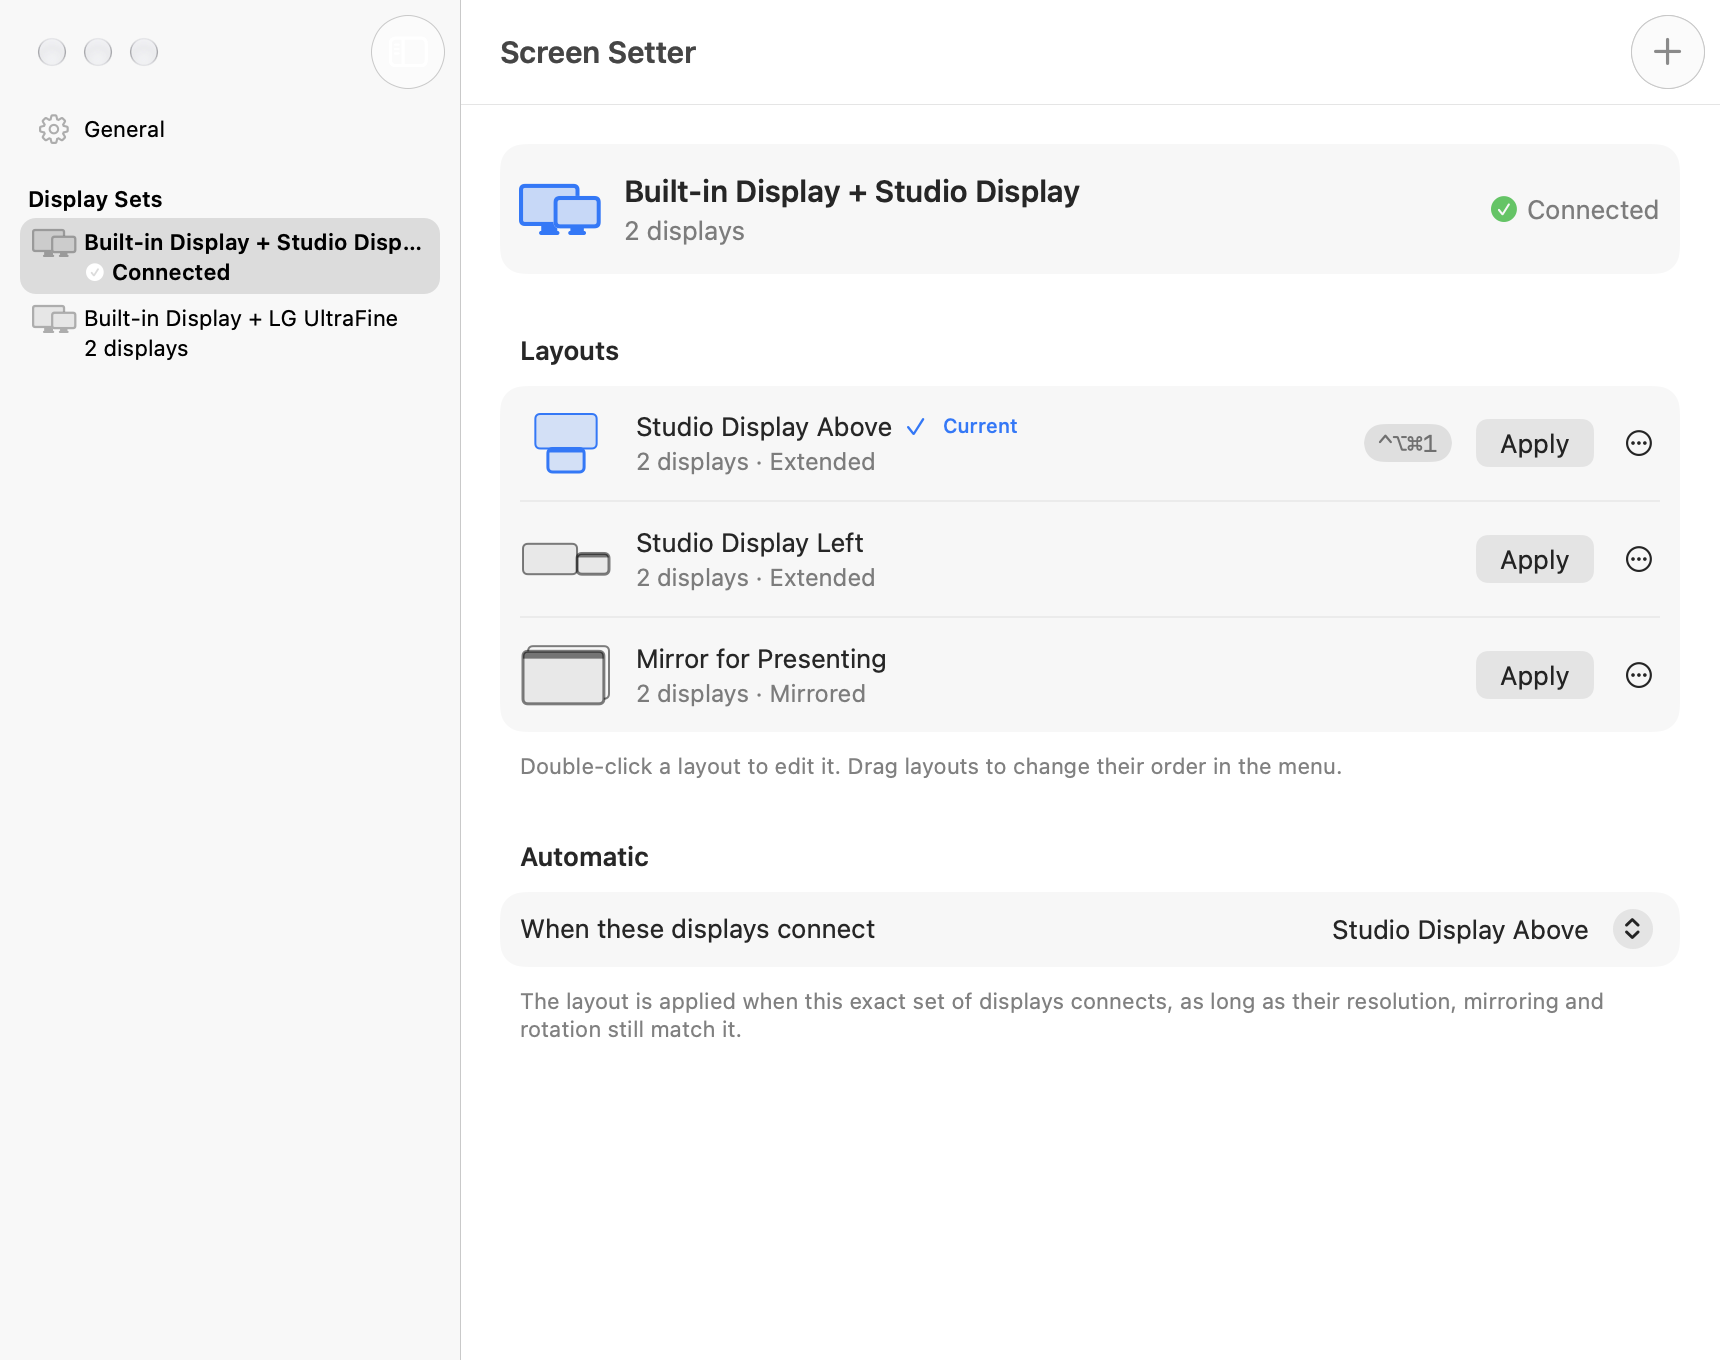
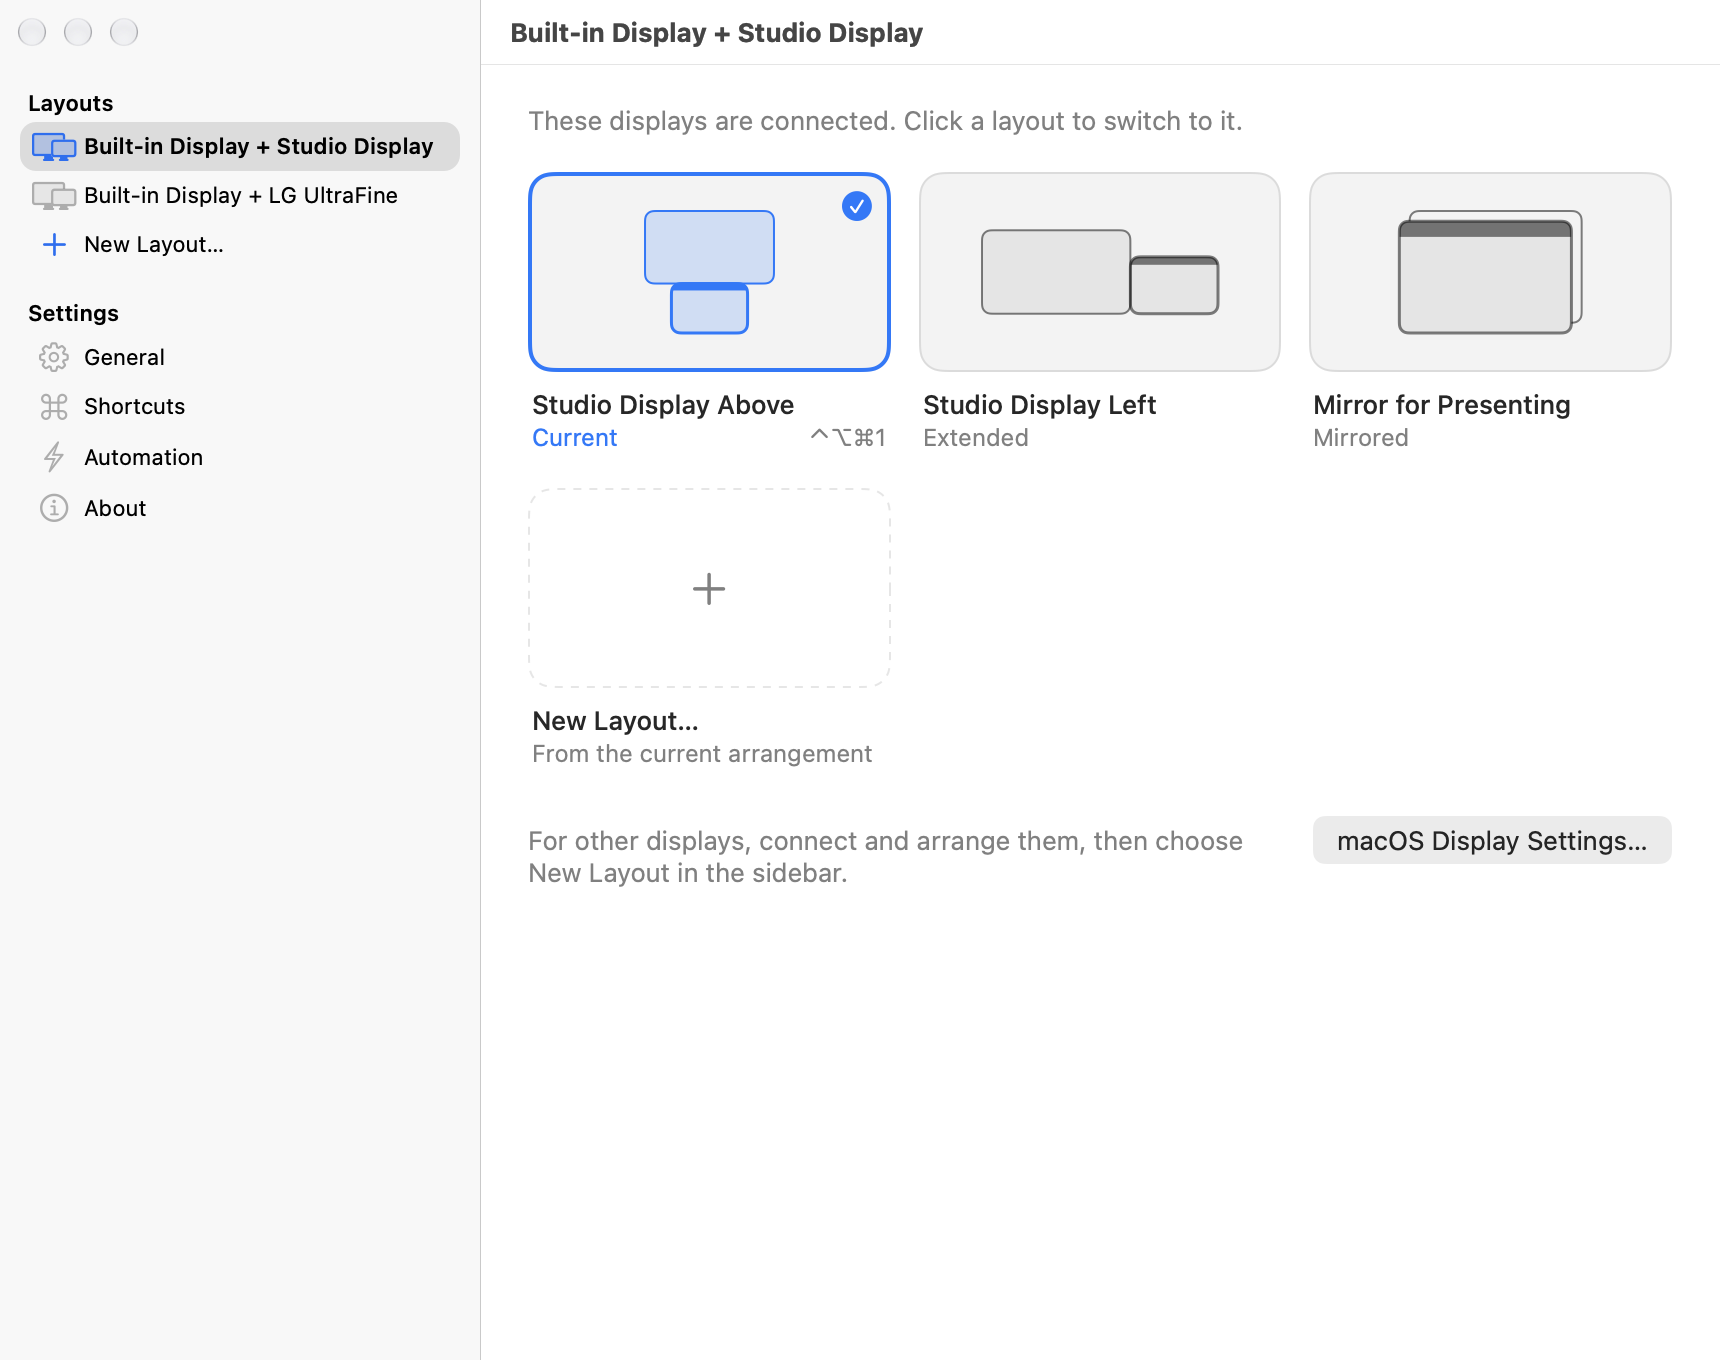
Release 2.2.2 (27) and refresh product images

diff --git a/docs/index.html b/docs/index.html
@@ -233,7 +233,7 @@
     <section class="section" id="download" aria-labelledby="download-title">
       <div class="wrap">
         <h2 id="download-title">Get Screen Setter. It's free.</h2>
-        <p class="lead section-lead">Version 2.2.0, for macOS 26 or later on Apple silicon and Intel Macs.</p>
+        <p class="lead section-lead">Version 2.2.2, for macOS 26 or later on Apple silicon and Intel Macs.</p>
         <div class="hero-actions">
           <a class="btn btn-primary" href="get/">Download</a>
           <a class="btn btn-secondary" href="https://github.com/andrea-lonardo/screen-setter/releases">All releases</a>

diff --git a/Tools/make_demo_gif.swift b/Tools/make_demo_gif.swift
@@ -120,7 +120,7 @@ func frame(from: Int, to: Int, progress: CGFloat, highlighted: Int?, checked: In
         drawTile(studio, title: "Studio Display", detail: "2560 × 1440", main: true, alpha: 1)
 
         // Screen Setter's menu.
-        let menu = CGRect(x: size.width - 470, y: barHeight + 10, width: 450, height: 304)
+        let menu = CGRect(x: size.width - 470, y: barHeight + 10, width: 450, height: 260)
         let menuPath = NSBezierPath(roundedRect: menu, xRadius: 16, yRadius: 16)
         color(0x1C1F28, 0.97).setFill()
         menuPath.fill()

diff --git a/docs/get/index.html b/docs/get/index.html
@@ -167,7 +167,7 @@
             <a class="btn btn-secondary" href="https://github.com/andrea-lonardo/screen-setter/releases">All releases</a>
           </div>
           <ul class="get-facts">
-            <li>Version 2.2.1 (26)</li>
+            <li>Version 2.2.2 (27)</li>
             <li>Screen-Setter.dmg, 4.4 MB</li>
             <li>Requires macOS 26 or later, on Apple silicon and Intel Macs.</li>
           </ul>

diff --git a/README.md b/README.md
@@ -73,7 +73,7 @@ one main display, no overlaps, every display touching another.
 <p align="center">
   <picture>
     <source media="(prefers-color-scheme: dark)" srcset="docs/images/settings-dark.png">
-    <img src="docs/images/settings.png" width="760" alt="Screen Setter Settings listing three layouts for a built-in display and a Studio Display, one with a keyboard shortcut, and the layout to apply automatically when those displays connect">
+    <img src="docs/images/settings.png" width="760" alt="Screen Setter Settings showing a gallery of three layouts for a built-in display and a Studio Display, with the current arrangement highlighted and a New Layout card">
   </picture>
 </p>
 
@@ -173,7 +173,9 @@ screensetter://settings
 
 `apply` accepts a layout's name (not case-sensitive; spaces and other special
 characters are percent-encoded), its identifier, or a 1.x preset ID such as
-`ipad-left`. If two layouts share a name, rename one or use the identifier. URLs
+`ipad-left`. Links copied from **Settings › Automation** use a layout’s
+identifier, so they keep working after renaming and distinguish layouts with the
+same name. If two layouts share a name, use a copied link or the identifier. URLs
 only apply saved layouts; they can't save, change, or delete anything, and they
 never run commands or scripts. Open Screen Setter once normally so macOS registers
 its URL scheme. Links that use the old `displaylayouts://` scheme work the same way.

diff --git a/CHANGELOG.md b/CHANGELOG.md
@@ -2,6 +2,14 @@
 
 Release tags combine the marketing version and build number: `v<version>.<build>`.
 
+## 2.2.2 (27) — 2026-11-08
+
+- Copied layout links keep working after renaming and distinguish layouts with the same name.
+- Show full layout and display-set names in tooltips, reveal card actions during keyboard focus, and label each actions menu with its layout name.
+- Respect Reduce Motion when editing display arrangements.
+- Refresh the Settings and welcome screenshots and the menu demo.
+- Add regression coverage for copied links and the layout editor’s geometry operations.
+
 ## 2.2.1 (26) — 2026-11-08
 
 - Remove Undo from the menu bar menu.

diff --git a/SECURITY.md b/SECURITY.md
@@ -4,8 +4,7 @@
 
 Please report security problems privately through GitHub's
 [private vulnerability reporting](https://github.com/andrea-lonardo/screen-setter/security/advisories/new)
-rather than in a public issue. Include the Screen Setter version (Settings ›
-General › About), your macOS version, and steps to reproduce.
+rather than in a public issue. Include the Screen Setter version (Settings › About), your macOS version, and steps to reproduce.
 
 You can expect an acknowledgement within a week. Fixes ship in a new release,
 and the report is credited unless you prefer otherwise.
